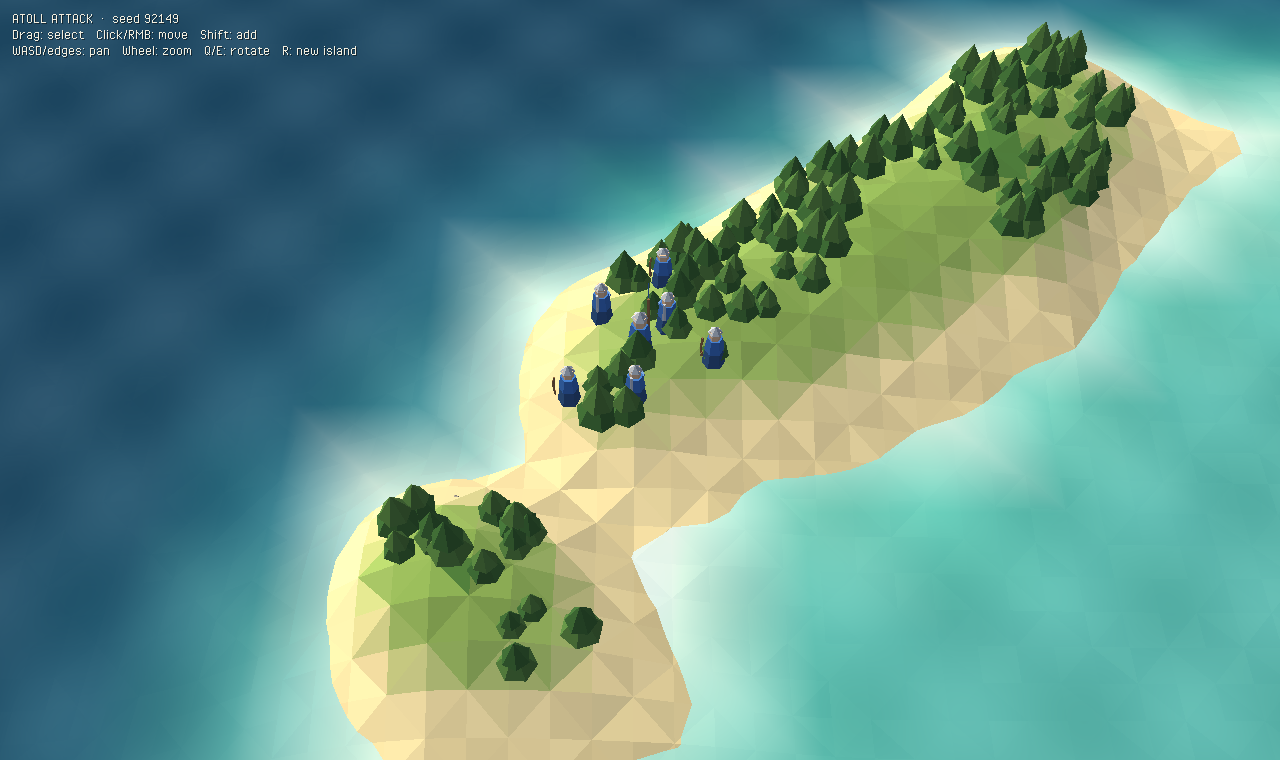
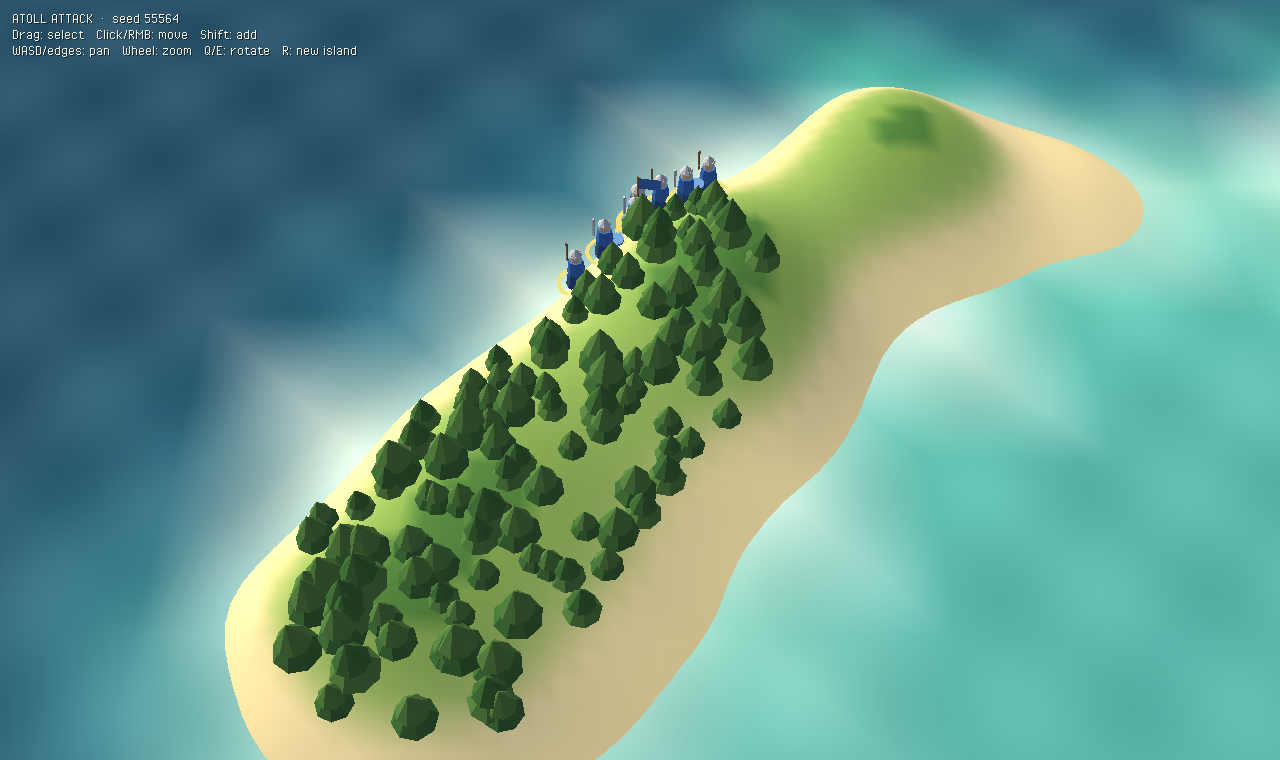
Smooth-shaded terrain, finer grid, painted tint; safer spawns; wider sea
Claude-Session: https://claude.ai/code/session_01Svr5p8hEFi3Q2Hxumcf7mR

diff --git a/bin/index.html b/bin/index.html
@@ -10,7 +10,7 @@
 	</style>
 </head>
 <body>
-	<canvas id="webgl"></canvas>
+	<canvas id="webgl" globalEvents="1"></canvas>
 	<script src="game.js"></script>
 </body>
 </html>
